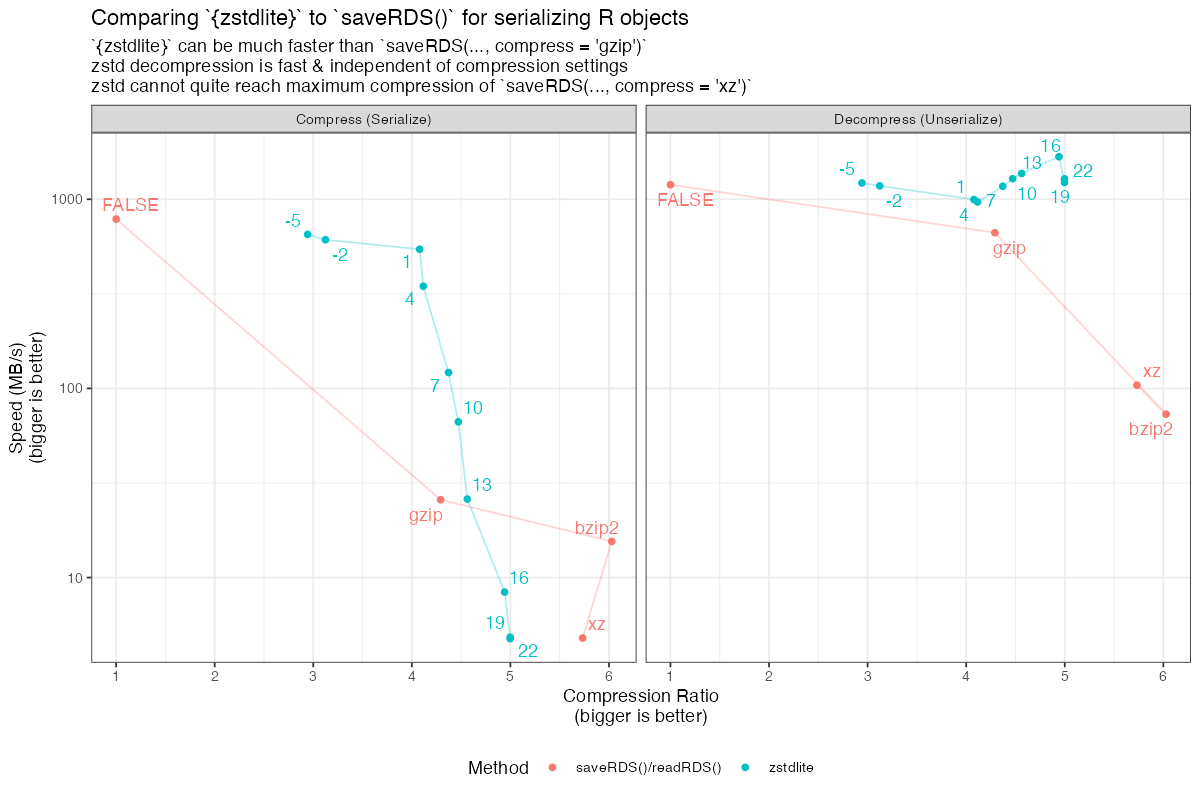
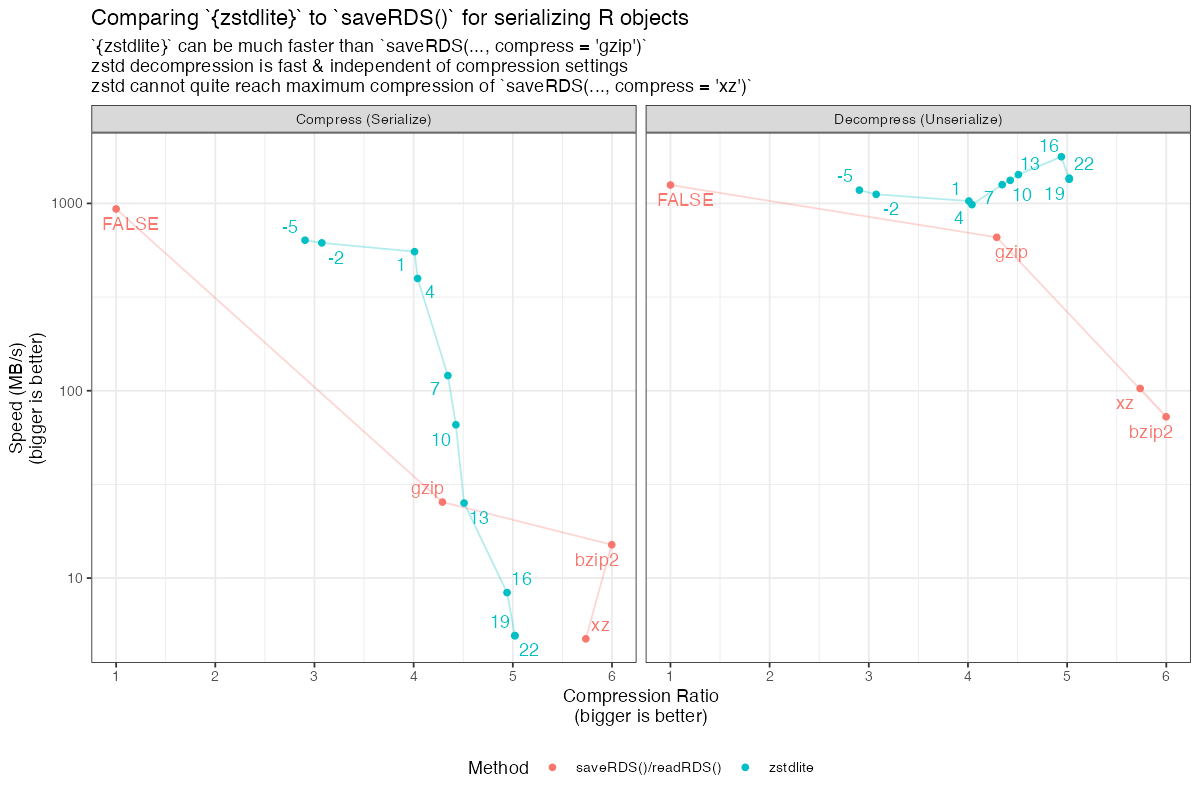
update benchmark and README

diff --git a/README.md b/README.md
@@ -14,7 +14,7 @@
 objects and compression/decompression of raw byte buffers and strings.
 
 [zstd](https://github.com/facebook/zstd) code provided with this package
-is v1.5.5, and is included under its BSD license (compatible with the
+is v1.5.6, and is included under its BSD license (compatible with the
 MIT license for this package).
 
 ## What’s in the box
@@ -38,7 +38,7 @@ MIT license for this package).
 
 ## Comparison to `saveRDS()`/`readRDS()`
 
-The image below comparse `{zstdlite}` with `saveRDS()` for saving
+The image below compares `{zstdlite}` with `saveRDS()` for saving
 compressed representations of R objects. (See `man/benchmarks.R` for
 code)
 
@@ -49,7 +49,7 @@ Things to note in this comparison for the particular data used:
 - `zstd` decompression speed is very fast and (mostly) independent of
   compression settings
 - Compressing with `xz` and `bzip2` can both produce more compressed
-  representations.
+  representations but at the expense of slow compression/decompression.
 
 <img src="man/figures/comparison.png" width="100%" />
 
@@ -77,16 +77,16 @@ compressed_bytes <- zstd_serialize(head(mtcars))
 length(compressed_bytes) 
 ```
 
-    #> [1] 481
+    #> [1] 482
 
 ``` r
 head(compressed_bytes, 100)
 ```
 
-    #>   [1] 28 b5 2f fd 60 e8 02 bd 0e 00 86 d3 4b 41 20 69 6c 3a 40 0e a9 4b c6 b0 85
-    #>  [26] 4c 23 a0 52 87 46 43 0d 7e 8b a1 84 b8 9e f5 89 68 5d 6c 22 8a 6a d1 25 dc
-    #>  [51] d4 ab ff ab a2 21 b3 29 26 2d ed a7 a2 80 72 a8 67 29 2f ce 39 1d a7 af 11
-    #>  [76] d8 90 9f 02 38 00 41 00 35 00 22 1e b9 48 bb 72 a1 76 24 5a ac e5 b3 30 e7
+    #>   [1] 28 b5 2f fd 60 e8 02 c5 0e 00 86 13 4c 41 30 67 6c 3a 00 f1 70 71 26 7f 4c
+    #>  [26] 13 ec 49 07 75 e9 64 d9 57 69 c7 18 a8 12 f8 c6 20 5d 6c 22 00 d5 a2 4b c8
+    #>  [51] ac df c3 99 67 c3 c5 5c 31 c3 43 4a 22 40 1c 68 85 23 ac c7 d1 61 7e 4d 83
+    #>  [76] c0 82 7e 0a 38 00 42 00 35 00 24 2e c1 48 db 82 a1 b6 24 62 2c e6 c3 b0 a7
 
 ``` r
 zstd_unserialize(compressed_bytes) 
@@ -199,14 +199,14 @@ manifesto <- paste(lorem::ipsum(paragraphs = 100), collapse = "\n")
 lobstr::obj_size(manifesto)
 ```
 
-    #> 34.61 kB
+    #> 37.49 kB
 
 ``` r
 compressed <- zstd_compress(manifesto, level = 22)
 lobstr::obj_size(compressed)
 ```
 
-    #> 9.69 kB
+    #> 10.46 kB
 
 ``` r
 identical(
@@ -273,7 +273,7 @@ s2 <- lapply(rankings, \(x) zstd_serialize(x, cctx = cctx_dict  )) |> lengths() 
 
     #> Compression ratio                : 1.9
 
-    #> Compression ratio with dictionary: 4.1
+    #> Compression ratio with dictionary: 4
 
 ## Acknowledgements
 
